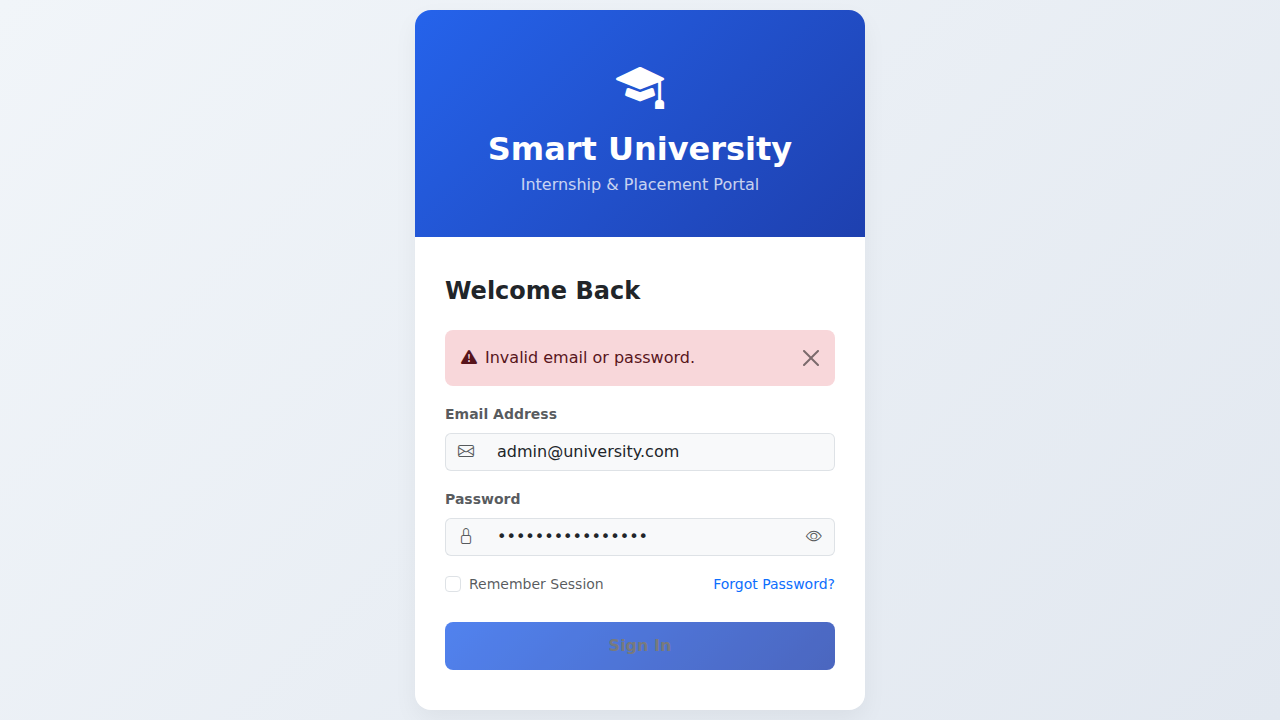
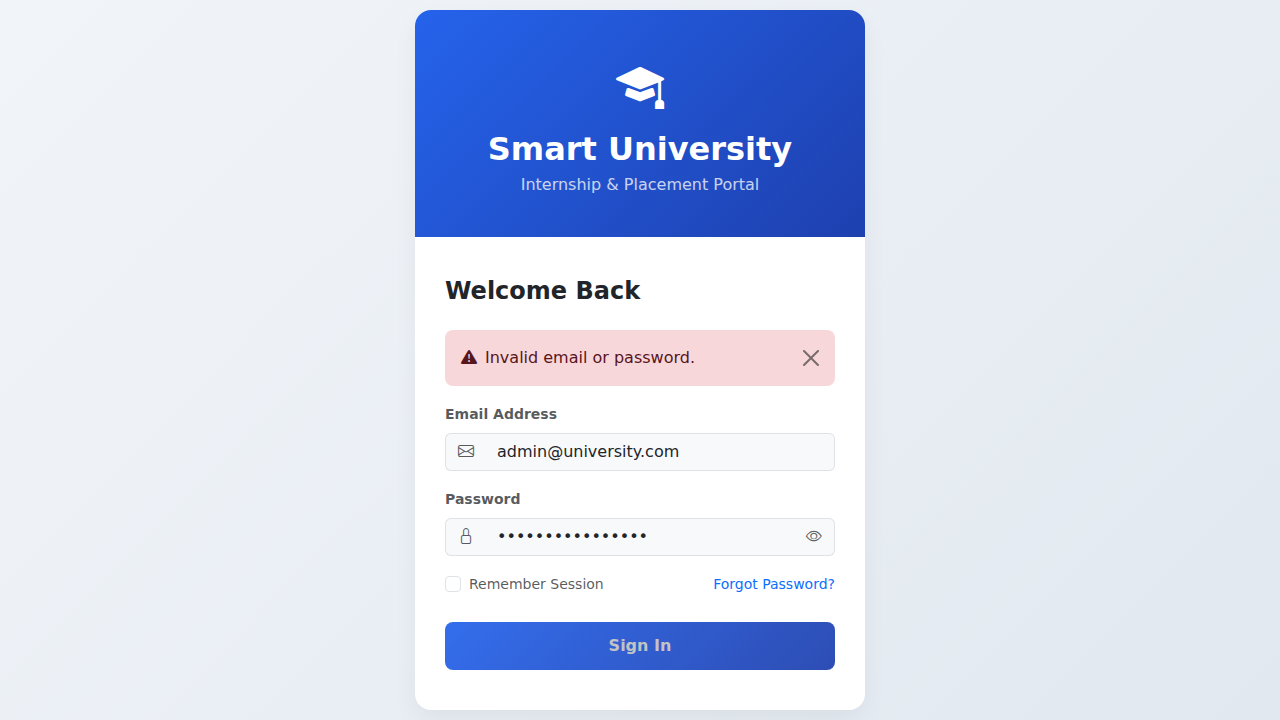
Phase 2 QA Improvements

Changed region(s): [[0.3438, 0.8556, 0.6562, 0.9472]]

diff --git a/internship-portal/public/js/main.js b/internship-portal/public/js/main.js
@@ -26,11 +26,19 @@
         }
 
         var alertDiv = document.createElement('div');
-        alertDiv.className = 'alert alert-' + type + ' alert-dismissible fade show';
+        alertDiv.className = 'alert alert-' + type + ' alert-dismissible fade show d-flex align-items-center justify-content-between';
         alertDiv.setAttribute('role', 'alert');
-        alertDiv.innerHTML =
-            message +
-            '<button type="button" class="btn-close" data-bs-dismiss="alert" aria-label="Close"></button>';
+
+        var textSpan = document.createElement('span');
+        textSpan.textContent = message;
+        alertDiv.appendChild(textSpan);
+
+        var closeBtn = document.createElement('button');
+        closeBtn.type = 'button';
+        closeBtn.className = 'btn-close';
+        closeBtn.setAttribute('data-bs-dismiss', 'alert');
+        closeBtn.setAttribute('aria-label', 'Close');
+        alertDiv.appendChild(closeBtn);
 
         var container = document.querySelector('.content-area') || document.querySelector('.main-content');
         if (container) {

diff --git a/internship-portal/views/change-password.html b/internship-portal/views/change-password.html
@@ -227,11 +227,12 @@
                     <div class="alert alert-${type} alert-dismissible fade show" role="alert">
                         <div class="d-flex align-items-center gap-2">
                             <i class="bi ${type === 'danger' ? 'bi-exclamation-triangle-fill' : 'bi-check-circle-fill'}"></i>
-                            <div>${message}</div>
+                            <div id="alertMsgText"></div>
                         </div>
                         <button type="button" class="btn-close" data-bs-dismiss="alert" aria-label="Close"></button>
                     </div>
                 `;
+                document.getElementById('alertMsgText').textContent = message;
             }
 
             // Form Submit handler

diff --git a/internship-portal/views/login.html b/internship-portal/views/login.html
@@ -151,11 +151,12 @@
                     <div class="alert alert-${type} alert-dismissible fade show" role="alert">
                         <div class="d-flex align-items-center gap-2">
                             <i class="bi ${type === 'danger' ? 'bi-exclamation-triangle-fill' : 'bi-check-circle-fill'}"></i>
-                            <div>${message}</div>
+                            <div id="alertMsgText"></div>
                         </div>
                         <button type="button" class="btn-close" data-bs-dismiss="alert" aria-label="Close"></button>
                     </div>
                 `;
+                document.getElementById('alertMsgText').textContent = message;
             }
 
             // Handle Form Submit